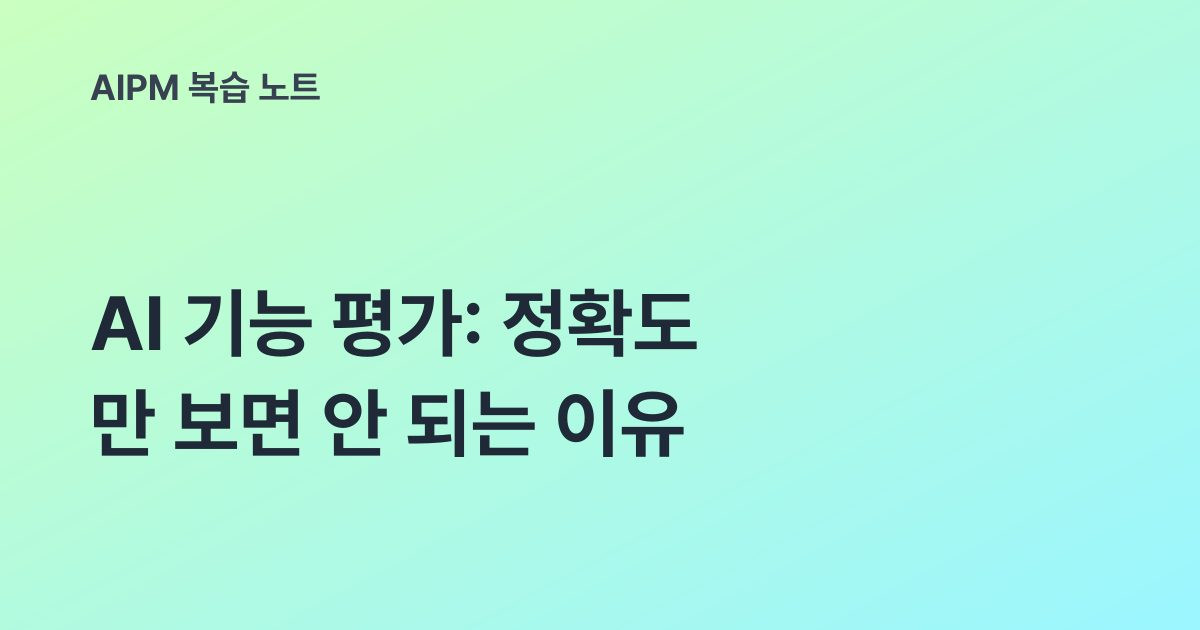
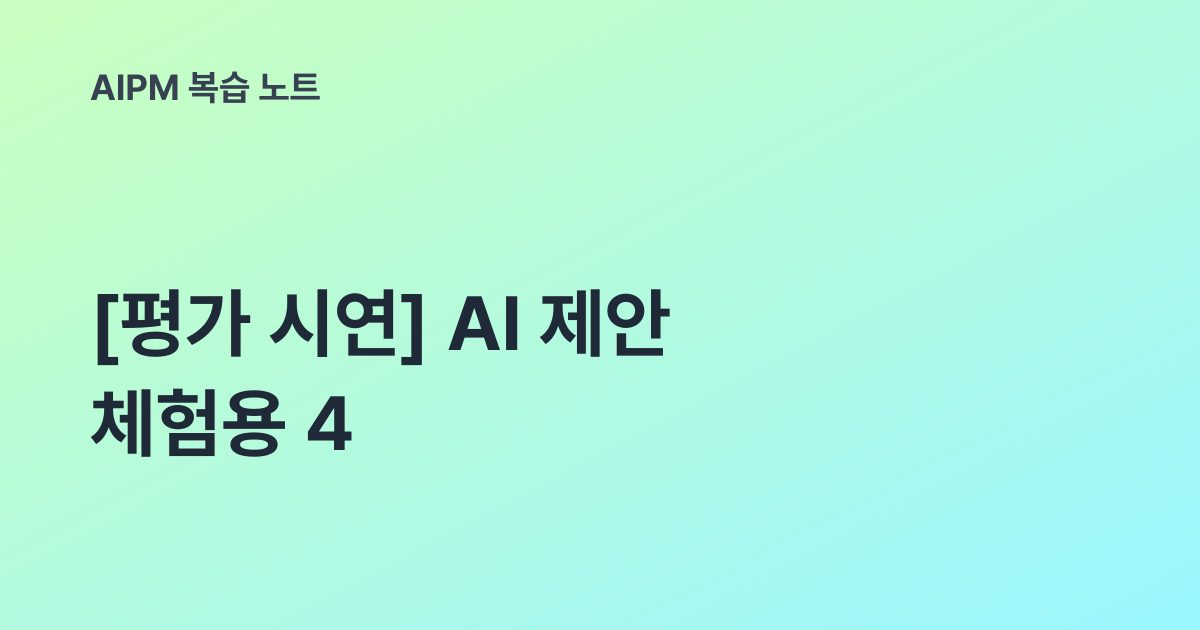
chore: 링크 미리보기 페이지 자동 갱신

Changed region(s): [[0.0617, 0.4524, 0.5858, 0.7238]]

diff --git a/p/28X5tNUE1bwasEPlf9PH.html b/p/28X5tNUE1bwasEPlf9PH.html
@@ -1,20 +1,20 @@
 <!DOCTYPE html>
 <html lang="ko"><head><meta charset="utf-8">
-<title>AI 기능 평가: 정확도만 보면 안 되는 이유 | AIPM 복습 노트</title>
+<title>[평가 시연] AI 제안 체험용 4 | AIPM 복습 노트</title>
 <meta name="viewport" content="width=device-width, initial-scale=1">
-<meta name="description" content="AI 기능 평가 시 정확도만 보면 안 되는 이유와 재현율 등 올바른 지표 선택의 중요성을 다룹니다. 실습을 통해 AI 글 정리 도우미의 핵심 지표로 수락률을 설정한 사례를 공유합니다.">
+<meta name="description" content="해당 글은 기능 테스트를 위한 글입니다.">
 <meta property="og:type" content="article">
 <meta property="og:site_name" content="AIPM 복습 노트">
-<meta property="og:title" content="AI 기능 평가: 정확도만 보면 안 되는 이유">
-<meta property="og:description" content="AI 기능 평가 시 정확도만 보면 안 되는 이유와 재현율 등 올바른 지표 선택의 중요성을 다룹니다. 실습을 통해 AI 글 정리 도우미의 핵심 지표로 수락률을 설정한 사례를 공유합니다.">
+<meta property="og:title" content="[평가 시연] AI 제안 체험용 4">
+<meta property="og:description" content="해당 글은 기능 테스트를 위한 글입니다.">
 <meta property="og:url" content="https://yourrhdiddl.github.io/blog/p/28X5tNUE1bwasEPlf9PH.html">
-<meta property="og:image" content="https://yourrhdiddl.github.io/blog/og/28X5tNUE1bwasEPlf9PH.jpg?v=336589dc">
+<meta property="og:image" content="https://yourrhdiddl.github.io/blog/og/28X5tNUE1bwasEPlf9PH.jpg?v=f1f419cc">
 <meta property="og:image:width" content="1200">
 <meta property="og:image:height" content="630">
 <meta name="twitter:card" content="summary_large_image">
-<meta name="twitter:title" content="AI 기능 평가: 정확도만 보면 안 되는 이유">
-<meta name="twitter:description" content="AI 기능 평가 시 정확도만 보면 안 되는 이유와 재현율 등 올바른 지표 선택의 중요성을 다룹니다. 실습을 통해 AI 글 정리 도우미의 핵심 지표로 수락률을 설정한 사례를 공유합니다.">
-<meta name="twitter:image" content="https://yourrhdiddl.github.io/blog/og/28X5tNUE1bwasEPlf9PH.jpg?v=336589dc">
+<meta name="twitter:title" content="[평가 시연] AI 제안 체험용 4">
+<meta name="twitter:description" content="해당 글은 기능 테스트를 위한 글입니다.">
+<meta name="twitter:image" content="https://yourrhdiddl.github.io/blog/og/28X5tNUE1bwasEPlf9PH.jpg?v=f1f419cc">
 <script>location.replace("../#/post/28X5tNUE1bwasEPlf9PH")</script>
 <noscript><meta http-equiv="refresh" content="0;url=../#/post/28X5tNUE1bwasEPlf9PH"></noscript>
-</head><body><p><a href="../#/post/28X5tNUE1bwasEPlf9PH">AI 기능 평가: 정확도만 보면 안 되는 이유 글 보러 가기</a></p></body></html>
+</head><body><p><a href="../#/post/28X5tNUE1bwasEPlf9PH">[평가 시연] AI 제안 체험용 4 글 보러 가기</a></p></body></html>

diff --git a/p/Ja3kbcJXvAI9yNqBqVKR.html b/p/Ja3kbcJXvAI9yNqBqVKR.html
@@ -1,20 +1,20 @@
 <!DOCTYPE html>
 <html lang="ko"><head><meta charset="utf-8">
-<title>원하는 결과물을 얻는 프롬프트 작성 팁 | AIPM 복습 노트</title>
+<title>[평가 시연] AI 제안 체험용 3 | AIPM 복습 노트</title>
 <meta name="viewport" content="width=device-width, initial-scale=1">
-<meta name="description" content="프롬프트에 원하는 결과의 예시를 한두 개 넣는 방법을 실습했다. 말로 설명할 때보다 형식과 말투가 훨씬 안정">
+<meta name="description" content="해당 글은 기능 테스트를 위한 글입니다.">
 <meta property="og:type" content="article">
 <meta property="og:site_name" content="AIPM 복습 노트">
-<meta property="og:title" content="원하는 결과물을 얻는 프롬프트 작성 팁">
-<meta property="og:description" content="프롬프트에 원하는 결과의 예시를 한두 개 넣는 방법을 실습했다. 말로 설명할 때보다 형식과 말투가 훨씬 안정">
+<meta property="og:title" content="[평가 시연] AI 제안 체험용 3">
+<meta property="og:description" content="해당 글은 기능 테스트를 위한 글입니다.">
 <meta property="og:url" content="https://yourrhdiddl.github.io/blog/p/Ja3kbcJXvAI9yNqBqVKR.html">
-<meta property="og:image" content="https://yourrhdiddl.github.io/blog/og/Ja3kbcJXvAI9yNqBqVKR.jpg?v=6e5dcc41">
+<meta property="og:image" content="https://yourrhdiddl.github.io/blog/og/Ja3kbcJXvAI9yNqBqVKR.jpg?v=299ac499">
 <meta property="og:image:width" content="1200">
 <meta property="og:image:height" content="630">
 <meta name="twitter:card" content="summary_large_image">
-<meta name="twitter:title" content="원하는 결과물을 얻는 프롬프트 작성 팁">
-<meta name="twitter:description" content="프롬프트에 원하는 결과의 예시를 한두 개 넣는 방법을 실습했다. 말로 설명할 때보다 형식과 말투가 훨씬 안정">
-<meta name="twitter:image" content="https://yourrhdiddl.github.io/blog/og/Ja3kbcJXvAI9yNqBqVKR.jpg?v=6e5dcc41">
+<meta name="twitter:title" content="[평가 시연] AI 제안 체험용 3">
+<meta name="twitter:description" content="해당 글은 기능 테스트를 위한 글입니다.">
+<meta name="twitter:image" content="https://yourrhdiddl.github.io/blog/og/Ja3kbcJXvAI9yNqBqVKR.jpg?v=299ac499">
 <script>location.replace("../#/post/Ja3kbcJXvAI9yNqBqVKR")</script>
 <noscript><meta http-equiv="refresh" content="0;url=../#/post/Ja3kbcJXvAI9yNqBqVKR"></noscript>
-</head><body><p><a href="../#/post/Ja3kbcJXvAI9yNqBqVKR">원하는 결과물을 얻는 프롬프트 작성 팁 글 보러 가기</a></p></body></html>
+</head><body><p><a href="../#/post/Ja3kbcJXvAI9yNqBqVKR">[평가 시연] AI 제안 체험용 3 글 보러 가기</a></p></body></html>

diff --git a/p/IfKUJEVWfoQCXPvdiQPk.html b/p/IfKUJEVWfoQCXPvdiQPk.html
@@ -2,18 +2,18 @@
 <html lang="ko"><head><meta charset="utf-8">
 <title>효과적인 제품 백로그 정렬, RICE 공식 활용법 | AIPM 복습 노트</title>
 <meta name="viewport" content="width=device-width, initial-scale=1">
-<meta name="description" content="RICE 프레임워크를 활용해 기능 우선순위를 정하는 방법을 배웠습니다. 도달 범위, 영향, 확신, 노력을 계산하여 점수가 높은 기능을 먼저 개발하며, 점수는 정답이 아닌 토론의 출발점입니다.">
+<meta name="description" content="기능이 많을 때 무엇부터 만들지 정하는 방법으로 RICE 점수를 배웠다. RICE는 Reach(도달 범위),">
 <meta property="og:type" content="article">
 <meta property="og:site_name" content="AIPM 복습 노트">
 <meta property="og:title" content="효과적인 제품 백로그 정렬, RICE 공식 활용법">
-<meta property="og:description" content="RICE 프레임워크를 활용해 기능 우선순위를 정하는 방법을 배웠습니다. 도달 범위, 영향, 확신, 노력을 계산하여 점수가 높은 기능을 먼저 개발하며, 점수는 정답이 아닌 토론의 출발점입니다.">
+<meta property="og:description" content="기능이 많을 때 무엇부터 만들지 정하는 방법으로 RICE 점수를 배웠다. RICE는 Reach(도달 범위),">
 <meta property="og:url" content="https://yourrhdiddl.github.io/blog/p/IfKUJEVWfoQCXPvdiQPk.html">
 <meta property="og:image" content="https://yourrhdiddl.github.io/blog/og/IfKUJEVWfoQCXPvdiQPk.jpg?v=36930742">
 <meta property="og:image:width" content="1200">
 <meta property="og:image:height" content="630">
 <meta name="twitter:card" content="summary_large_image">
 <meta name="twitter:title" content="효과적인 제품 백로그 정렬, RICE 공식 활용법">
-<meta name="twitter:description" content="RICE 프레임워크를 활용해 기능 우선순위를 정하는 방법을 배웠습니다. 도달 범위, 영향, 확신, 노력을 계산하여 점수가 높은 기능을 먼저 개발하며, 점수는 정답이 아닌 토론의 출발점입니다.">
+<meta name="twitter:description" content="기능이 많을 때 무엇부터 만들지 정하는 방법으로 RICE 점수를 배웠다. RICE는 Reach(도달 범위),">
 <meta name="twitter:image" content="https://yourrhdiddl.github.io/blog/og/IfKUJEVWfoQCXPvdiQPk.jpg?v=36930742">
 <script>location.replace("../#/post/IfKUJEVWfoQCXPvdiQPk")</script>
 <noscript><meta http-equiv="refresh" content="0;url=../#/post/IfKUJEVWfoQCXPvdiQPk"></noscript>

diff --git a/p/ETPH5osjXdTaqskSVVT0.html b/p/ETPH5osjXdTaqskSVVT0.html
@@ -1,0 +1,20 @@
+<!DOCTYPE html>
+<html lang="ko"><head><meta charset="utf-8">
+<title>[테스트용] 임시 제목 | AIPM 복습 노트</title>
+<meta name="viewport" content="width=device-width, initial-scale=1">
+<meta name="description" content="가족과 함께한 김장 후기. 힘들게만 느껴지던 일이 함께하는 소중한 시간이 되었고, 내년에는 어머니의 레시피를 영상으로 남기기로 했다.">
+<meta property="og:type" content="article">
+<meta property="og:site_name" content="AIPM 복습 노트">
+<meta property="og:title" content="[테스트용] 임시 제목">
+<meta property="og:description" content="가족과 함께한 김장 후기. 힘들게만 느껴지던 일이 함께하는 소중한 시간이 되었고, 내년에는 어머니의 레시피를 영상으로 남기기로 했다.">
+<meta property="og:url" content="https://yourrhdiddl.github.io/blog/p/ETPH5osjXdTaqskSVVT0.html">
+<meta property="og:image" content="https://yourrhdiddl.github.io/blog/og/ETPH5osjXdTaqskSVVT0.jpg?v=a9cd5833">
+<meta property="og:image:width" content="1200">
+<meta property="og:image:height" content="630">
+<meta name="twitter:card" content="summary_large_image">
+<meta name="twitter:title" content="[테스트용] 임시 제목">
+<meta name="twitter:description" content="가족과 함께한 김장 후기. 힘들게만 느껴지던 일이 함께하는 소중한 시간이 되었고, 내년에는 어머니의 레시피를 영상으로 남기기로 했다.">
+<meta name="twitter:image" content="https://yourrhdiddl.github.io/blog/og/ETPH5osjXdTaqskSVVT0.jpg?v=a9cd5833">
+<script>location.replace("../#/post/ETPH5osjXdTaqskSVVT0")</script>
+<noscript><meta http-equiv="refresh" content="0;url=../#/post/ETPH5osjXdTaqskSVVT0"></noscript>
+</head><body><p><a href="../#/post/ETPH5osjXdTaqskSVVT0">[테스트용] 임시 제목 글 보러 가기</a></p></body></html>

diff --git a/p/Ar51xFiiORhnjrwzVoYj.html b/p/Ar51xFiiORhnjrwzVoYj.html
@@ -1,0 +1,20 @@
+<!DOCTYPE html>
+<html lang="ko"><head><meta charset="utf-8">
+<title>[테스트용] 임시 제목 | AIPM 복습 노트</title>
+<meta name="viewport" content="width=device-width, initial-scale=1">
+<meta name="description" content="재택근무를 하는 날이면 고양이가 노트북 옆자리를 차지한다. 처음에는 키보드 위로 올라와 곤란했지만, 이제는">
+<meta property="og:type" content="article">
+<meta property="og:site_name" content="AIPM 복습 노트">
+<meta property="og:title" content="[테스트용] 임시 제목">
+<meta property="og:description" content="재택근무를 하는 날이면 고양이가 노트북 옆자리를 차지한다. 처음에는 키보드 위로 올라와 곤란했지만, 이제는">
+<meta property="og:url" content="https://yourrhdiddl.github.io/blog/p/Ar51xFiiORhnjrwzVoYj.html">
+<meta property="og:image" content="https://yourrhdiddl.github.io/blog/og/Ar51xFiiORhnjrwzVoYj.jpg?v=6d755eb6">
+<meta property="og:image:width" content="1200">
+<meta property="og:image:height" content="630">
+<meta name="twitter:card" content="summary_large_image">
+<meta name="twitter:title" content="[테스트용] 임시 제목">
+<meta name="twitter:description" content="재택근무를 하는 날이면 고양이가 노트북 옆자리를 차지한다. 처음에는 키보드 위로 올라와 곤란했지만, 이제는">
+<meta name="twitter:image" content="https://yourrhdiddl.github.io/blog/og/Ar51xFiiORhnjrwzVoYj.jpg?v=6d755eb6">
+<script>location.replace("../#/post/Ar51xFiiORhnjrwzVoYj")</script>
+<noscript><meta http-equiv="refresh" content="0;url=../#/post/Ar51xFiiORhnjrwzVoYj"></noscript>
+</head><body><p><a href="../#/post/Ar51xFiiORhnjrwzVoYj">[테스트용] 임시 제목 글 보러 가기</a></p></body></html>

diff --git a/p/RE7vxeRwSlusKHWjXo2r.html b/p/RE7vxeRwSlusKHWjXo2r.html
@@ -1,0 +1,20 @@
+<!DOCTYPE html>
+<html lang="ko"><head><meta charset="utf-8">
+<title>[테스트용] 임시 제목 | AIPM 복습 노트</title>
+<meta name="viewport" content="width=device-width, initial-scale=1">
+<meta name="description" content="일요일 저녁에 냉장고를 통째로 비워 보았다. 구석에서 유통기한이 지난 소스 두 병과 먹다 남은 반찬이 나왔고">
+<meta property="og:type" content="article">
+<meta property="og:site_name" content="AIPM 복습 노트">
+<meta property="og:title" content="[테스트용] 임시 제목">
+<meta property="og:description" content="일요일 저녁에 냉장고를 통째로 비워 보았다. 구석에서 유통기한이 지난 소스 두 병과 먹다 남은 반찬이 나왔고">
+<meta property="og:url" content="https://yourrhdiddl.github.io/blog/p/RE7vxeRwSlusKHWjXo2r.html">
+<meta property="og:image" content="https://yourrhdiddl.github.io/blog/og/RE7vxeRwSlusKHWjXo2r.jpg?v=219a475c">
+<meta property="og:image:width" content="1200">
+<meta property="og:image:height" content="630">
+<meta name="twitter:card" content="summary_large_image">
+<meta name="twitter:title" content="[테스트용] 임시 제목">
+<meta name="twitter:description" content="일요일 저녁에 냉장고를 통째로 비워 보았다. 구석에서 유통기한이 지난 소스 두 병과 먹다 남은 반찬이 나왔고">
+<meta name="twitter:image" content="https://yourrhdiddl.github.io/blog/og/RE7vxeRwSlusKHWjXo2r.jpg?v=219a475c">
+<script>location.replace("../#/post/RE7vxeRwSlusKHWjXo2r")</script>
+<noscript><meta http-equiv="refresh" content="0;url=../#/post/RE7vxeRwSlusKHWjXo2r"></noscript>
+</head><body><p><a href="../#/post/RE7vxeRwSlusKHWjXo2r">[테스트용] 임시 제목 글 보러 가기</a></p></body></html>

diff --git a/p/HgEehqfZgO0FZnvsOSF3.html b/p/HgEehqfZgO0FZnvsOSF3.html
@@ -1,0 +1,20 @@
+<!DOCTYPE html>
+<html lang="ko"><head><meta charset="utf-8">
+<title>[테스트용] 임시 제목 | AIPM 복습 노트</title>
+<meta name="viewport" content="width=device-width, initial-scale=1">
+<meta name="description" content="주말에 교외로 나가 별을 보았다. 도시에서는 밝은 별 몇 개만 보이지만, 불빛이 적은 곳에서는 하늘이 완전히">
+<meta property="og:type" content="article">
+<meta property="og:site_name" content="AIPM 복습 노트">
+<meta property="og:title" content="[테스트용] 임시 제목">
+<meta property="og:description" content="주말에 교외로 나가 별을 보았다. 도시에서는 밝은 별 몇 개만 보이지만, 불빛이 적은 곳에서는 하늘이 완전히">
+<meta property="og:url" content="https://yourrhdiddl.github.io/blog/p/HgEehqfZgO0FZnvsOSF3.html">
+<meta property="og:image" content="https://yourrhdiddl.github.io/blog/og/HgEehqfZgO0FZnvsOSF3.jpg?v=a9cd5833">
+<meta property="og:image:width" content="1200">
+<meta property="og:image:height" content="630">
+<meta name="twitter:card" content="summary_large_image">
+<meta name="twitter:title" content="[테스트용] 임시 제목">
+<meta name="twitter:description" content="주말에 교외로 나가 별을 보았다. 도시에서는 밝은 별 몇 개만 보이지만, 불빛이 적은 곳에서는 하늘이 완전히">
+<meta name="twitter:image" content="https://yourrhdiddl.github.io/blog/og/HgEehqfZgO0FZnvsOSF3.jpg?v=a9cd5833">
+<script>location.replace("../#/post/HgEehqfZgO0FZnvsOSF3")</script>
+<noscript><meta http-equiv="refresh" content="0;url=../#/post/HgEehqfZgO0FZnvsOSF3"></noscript>
+</head><body><p><a href="../#/post/HgEehqfZgO0FZnvsOSF3">[테스트용] 임시 제목 글 보러 가기</a></p></body></html>

diff --git a/p/iKAYBdIwE7AakbWVxWEY.html b/p/iKAYBdIwE7AakbWVxWEY.html
@@ -1,0 +1,20 @@
+<!DOCTYPE html>
+<html lang="ko"><head><meta charset="utf-8">
+<title>[테스트용] 임시 제목 | AIPM 복습 노트</title>
+<meta name="viewport" content="width=device-width, initial-scale=1">
+<meta name="description" content="주말 오전에 동네 카페를 찾아다니는 일은 생각보다 즐거운 취미다. 처음에는 커피 맛만 보고 골랐지만, 몇 달">
+<meta property="og:type" content="article">
+<meta property="og:site_name" content="AIPM 복습 노트">
+<meta property="og:title" content="[테스트용] 임시 제목">
+<meta property="og:description" content="주말 오전에 동네 카페를 찾아다니는 일은 생각보다 즐거운 취미다. 처음에는 커피 맛만 보고 골랐지만, 몇 달">
+<meta property="og:url" content="https://yourrhdiddl.github.io/blog/p/iKAYBdIwE7AakbWVxWEY.html">
+<meta property="og:image" content="https://yourrhdiddl.github.io/blog/og/iKAYBdIwE7AakbWVxWEY.jpg?v=fddc93ae">
+<meta property="og:image:width" content="1200">
+<meta property="og:image:height" content="630">
+<meta name="twitter:card" content="summary_large_image">
+<meta name="twitter:title" content="[테스트용] 임시 제목">
+<meta name="twitter:description" content="주말 오전에 동네 카페를 찾아다니는 일은 생각보다 즐거운 취미다. 처음에는 커피 맛만 보고 골랐지만, 몇 달">
+<meta name="twitter:image" content="https://yourrhdiddl.github.io/blog/og/iKAYBdIwE7AakbWVxWEY.jpg?v=fddc93ae">
+<script>location.replace("../#/post/iKAYBdIwE7AakbWVxWEY")</script>
+<noscript><meta http-equiv="refresh" content="0;url=../#/post/iKAYBdIwE7AakbWVxWEY"></noscript>
+</head><body><p><a href="../#/post/iKAYBdIwE7AakbWVxWEY">[테스트용] 임시 제목 글 보러 가기</a></p></body></html>

diff --git a/p/ovSVLMdMahhllTrWlp65.html b/p/ovSVLMdMahhllTrWlp65.html
@@ -1,0 +1,20 @@
+<!DOCTYPE html>
+<html lang="ko"><head><meta charset="utf-8">
+<title>[테스트용] 임시 제목 | AIPM 복습 노트</title>
+<meta name="viewport" content="width=device-width, initial-scale=1">
+<meta name="description" content="출근길 지하철이 늘 붐비다 보니 휴대폰만 보는 날이 많았다. 그래서 이번 달부터 얇은 문고본 한 권을 가방에">
+<meta property="og:type" content="article">
+<meta property="og:site_name" content="AIPM 복습 노트">
+<meta property="og:title" content="[테스트용] 임시 제목">
+<meta property="og:description" content="출근길 지하철이 늘 붐비다 보니 휴대폰만 보는 날이 많았다. 그래서 이번 달부터 얇은 문고본 한 권을 가방에">
+<meta property="og:url" content="https://yourrhdiddl.github.io/blog/p/ovSVLMdMahhllTrWlp65.html">
+<meta property="og:image" content="https://yourrhdiddl.github.io/blog/og/ovSVLMdMahhllTrWlp65.jpg?v=219a475c">
+<meta property="og:image:width" content="1200">
+<meta property="og:image:height" content="630">
+<meta name="twitter:card" content="summary_large_image">
+<meta name="twitter:title" content="[테스트용] 임시 제목">
+<meta name="twitter:description" content="출근길 지하철이 늘 붐비다 보니 휴대폰만 보는 날이 많았다. 그래서 이번 달부터 얇은 문고본 한 권을 가방에">
+<meta name="twitter:image" content="https://yourrhdiddl.github.io/blog/og/ovSVLMdMahhllTrWlp65.jpg?v=219a475c">
+<script>location.replace("../#/post/ovSVLMdMahhllTrWlp65")</script>
+<noscript><meta http-equiv="refresh" content="0;url=../#/post/ovSVLMdMahhllTrWlp65"></noscript>
+</head><body><p><a href="../#/post/ovSVLMdMahhllTrWlp65">[테스트용] 임시 제목 글 보러 가기</a></p></body></html>

diff --git a/p/nPhtIYPKiHQghNBuHuO3.html b/p/nPhtIYPKiHQghNBuHuO3.html
@@ -1,0 +1,20 @@
+<!DOCTYPE html>
+<html lang="ko"><head><meta charset="utf-8">
+<title>[테스트용] 임시 제목 | AIPM 복습 노트</title>
+<meta name="viewport" content="width=device-width, initial-scale=1">
+<meta name="description" content="아침부터 비가 내리는 날에는 괜히 따뜻한 국물이 먹고 싶어진다. 냉장고에 있던 두부와 애호박, 멸치 육수를">
+<meta property="og:type" content="article">
+<meta property="og:site_name" content="AIPM 복습 노트">
+<meta property="og:title" content="[테스트용] 임시 제목">
+<meta property="og:description" content="아침부터 비가 내리는 날에는 괜히 따뜻한 국물이 먹고 싶어진다. 냉장고에 있던 두부와 애호박, 멸치 육수를">
+<meta property="og:url" content="https://yourrhdiddl.github.io/blog/p/nPhtIYPKiHQghNBuHuO3.html">
+<meta property="og:image" content="https://yourrhdiddl.github.io/blog/og/nPhtIYPKiHQghNBuHuO3.jpg?v=6d755eb6">
+<meta property="og:image:width" content="1200">
+<meta property="og:image:height" content="630">
+<meta name="twitter:card" content="summary_large_image">
+<meta name="twitter:title" content="[테스트용] 임시 제목">
+<meta name="twitter:description" content="아침부터 비가 내리는 날에는 괜히 따뜻한 국물이 먹고 싶어진다. 냉장고에 있던 두부와 애호박, 멸치 육수를">
+<meta name="twitter:image" content="https://yourrhdiddl.github.io/blog/og/nPhtIYPKiHQghNBuHuO3.jpg?v=6d755eb6">
+<script>location.replace("../#/post/nPhtIYPKiHQghNBuHuO3")</script>
+<noscript><meta http-equiv="refresh" content="0;url=../#/post/nPhtIYPKiHQghNBuHuO3"></noscript>
+</head><body><p><a href="../#/post/nPhtIYPKiHQghNBuHuO3">[테스트용] 임시 제목 글 보러 가기</a></p></body></html>

diff --git a/p/cEpegpmJHiY3cKpL54SZ.html b/p/cEpegpmJHiY3cKpL54SZ.html
@@ -1,0 +1,20 @@
+<!DOCTYPE html>
+<html lang="ko"><head><meta charset="utf-8">
+<title>[테스트용] 임시 제목 | AIPM 복습 노트</title>
+<meta name="viewport" content="width=device-width, initial-scale=1">
+<meta name="description" content="퇴근 후 한강 자전거 길을 달리기 시작한 지 한 달이 되었다. 처음 며칠은 욕심을 내서 빠르게 달리다가 다리">
+<meta property="og:type" content="article">
+<meta property="og:site_name" content="AIPM 복습 노트">
+<meta property="og:title" content="[테스트용] 임시 제목">
+<meta property="og:description" content="퇴근 후 한강 자전거 길을 달리기 시작한 지 한 달이 되었다. 처음 며칠은 욕심을 내서 빠르게 달리다가 다리">
+<meta property="og:url" content="https://yourrhdiddl.github.io/blog/p/cEpegpmJHiY3cKpL54SZ.html">
+<meta property="og:image" content="https://yourrhdiddl.github.io/blog/og/cEpegpmJHiY3cKpL54SZ.jpg?v=219a475c">
+<meta property="og:image:width" content="1200">
+<meta property="og:image:height" content="630">
+<meta name="twitter:card" content="summary_large_image">
+<meta name="twitter:title" content="[테스트용] 임시 제목">
+<meta name="twitter:description" content="퇴근 후 한강 자전거 길을 달리기 시작한 지 한 달이 되었다. 처음 며칠은 욕심을 내서 빠르게 달리다가 다리">
+<meta name="twitter:image" content="https://yourrhdiddl.github.io/blog/og/cEpegpmJHiY3cKpL54SZ.jpg?v=219a475c">
+<script>location.replace("../#/post/cEpegpmJHiY3cKpL54SZ")</script>
+<noscript><meta http-equiv="refresh" content="0;url=../#/post/cEpegpmJHiY3cKpL54SZ"></noscript>
+</head><body><p><a href="../#/post/cEpegpmJHiY3cKpL54SZ">[테스트용] 임시 제목 글 보러 가기</a></p></body></html>

diff --git a/p/bAzqOjzVRZU3wAgmJacW.html b/p/bAzqOjzVRZU3wAgmJacW.html
@@ -1,0 +1,20 @@
+<!DOCTYPE html>
+<html lang="ko"><head><meta charset="utf-8">
+<title>[테스트용] 임시 제목 | AIPM 복습 노트</title>
+<meta name="viewport" content="width=device-width, initial-scale=1">
+<meta name="description" content="헬스장 등록을 몇 번이나 미루다가 결국 집에서 십 분 운동을 시작했다. 스쿼트, 팔굽혀펴기, 플랭크를 각각">
+<meta property="og:type" content="article">
+<meta property="og:site_name" content="AIPM 복습 노트">
+<meta property="og:title" content="[테스트용] 임시 제목">
+<meta property="og:description" content="헬스장 등록을 몇 번이나 미루다가 결국 집에서 십 분 운동을 시작했다. 스쿼트, 팔굽혀펴기, 플랭크를 각각">
+<meta property="og:url" content="https://yourrhdiddl.github.io/blog/p/bAzqOjzVRZU3wAgmJacW.html">
+<meta property="og:image" content="https://yourrhdiddl.github.io/blog/og/bAzqOjzVRZU3wAgmJacW.jpg?v=219a475c">
+<meta property="og:image:width" content="1200">
+<meta property="og:image:height" content="630">
+<meta name="twitter:card" content="summary_large_image">
+<meta name="twitter:title" content="[테스트용] 임시 제목">
+<meta name="twitter:description" content="헬스장 등록을 몇 번이나 미루다가 결국 집에서 십 분 운동을 시작했다. 스쿼트, 팔굽혀펴기, 플랭크를 각각">
+<meta name="twitter:image" content="https://yourrhdiddl.github.io/blog/og/bAzqOjzVRZU3wAgmJacW.jpg?v=219a475c">
+<script>location.replace("../#/post/bAzqOjzVRZU3wAgmJacW")</script>
+<noscript><meta http-equiv="refresh" content="0;url=../#/post/bAzqOjzVRZU3wAgmJacW"></noscript>
+</head><body><p><a href="../#/post/bAzqOjzVRZU3wAgmJacW">[테스트용] 임시 제목 글 보러 가기</a></p></body></html>
